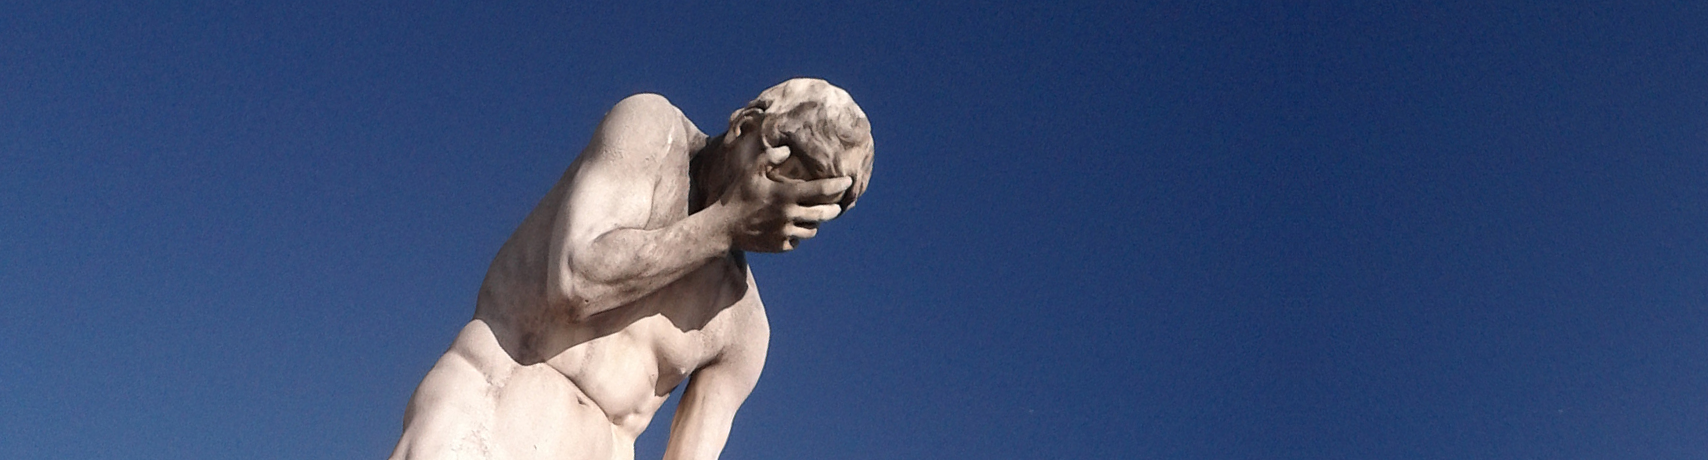
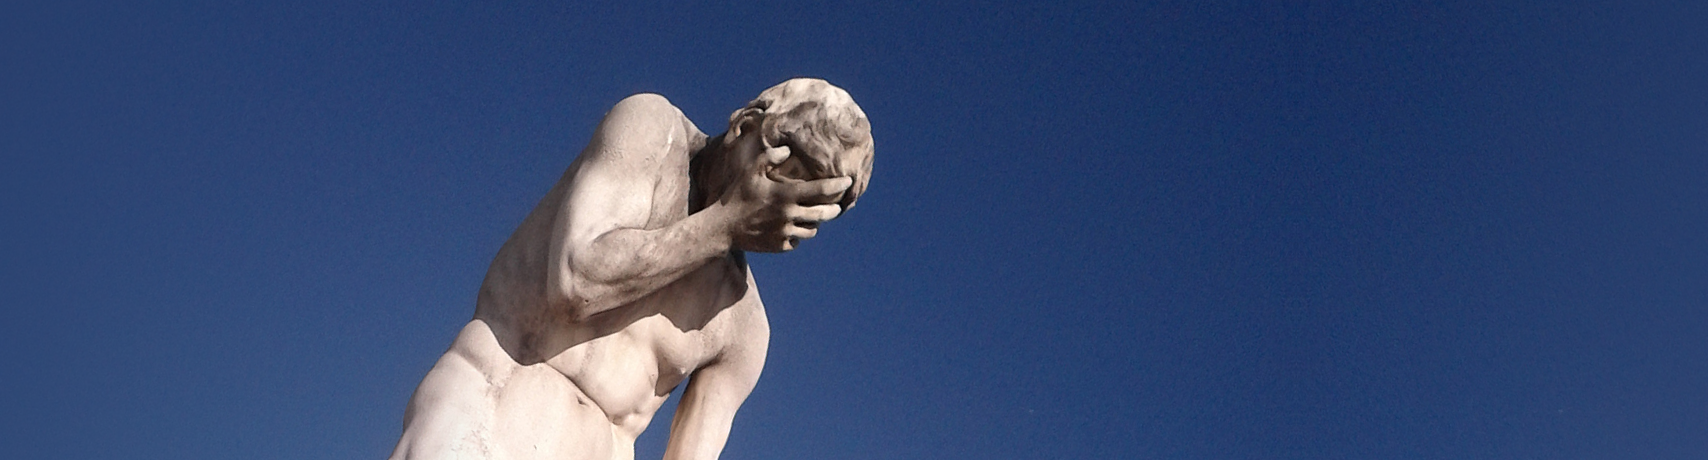
background cover

Changed region(s): [[0.0, 0.7, 0.0621, 1.0]]

diff --git a/posts/latex-root-full/local.css b/posts/latex-root-full/local.css
@@ -1,3 +1,3 @@
 .pageheader {
-    background: url('Facepalm.png') repeat fixed 0 50% #162b5a;
+    background: url('Facepalm.png') repeat fixed 50% 66% #162b5a;
 }
